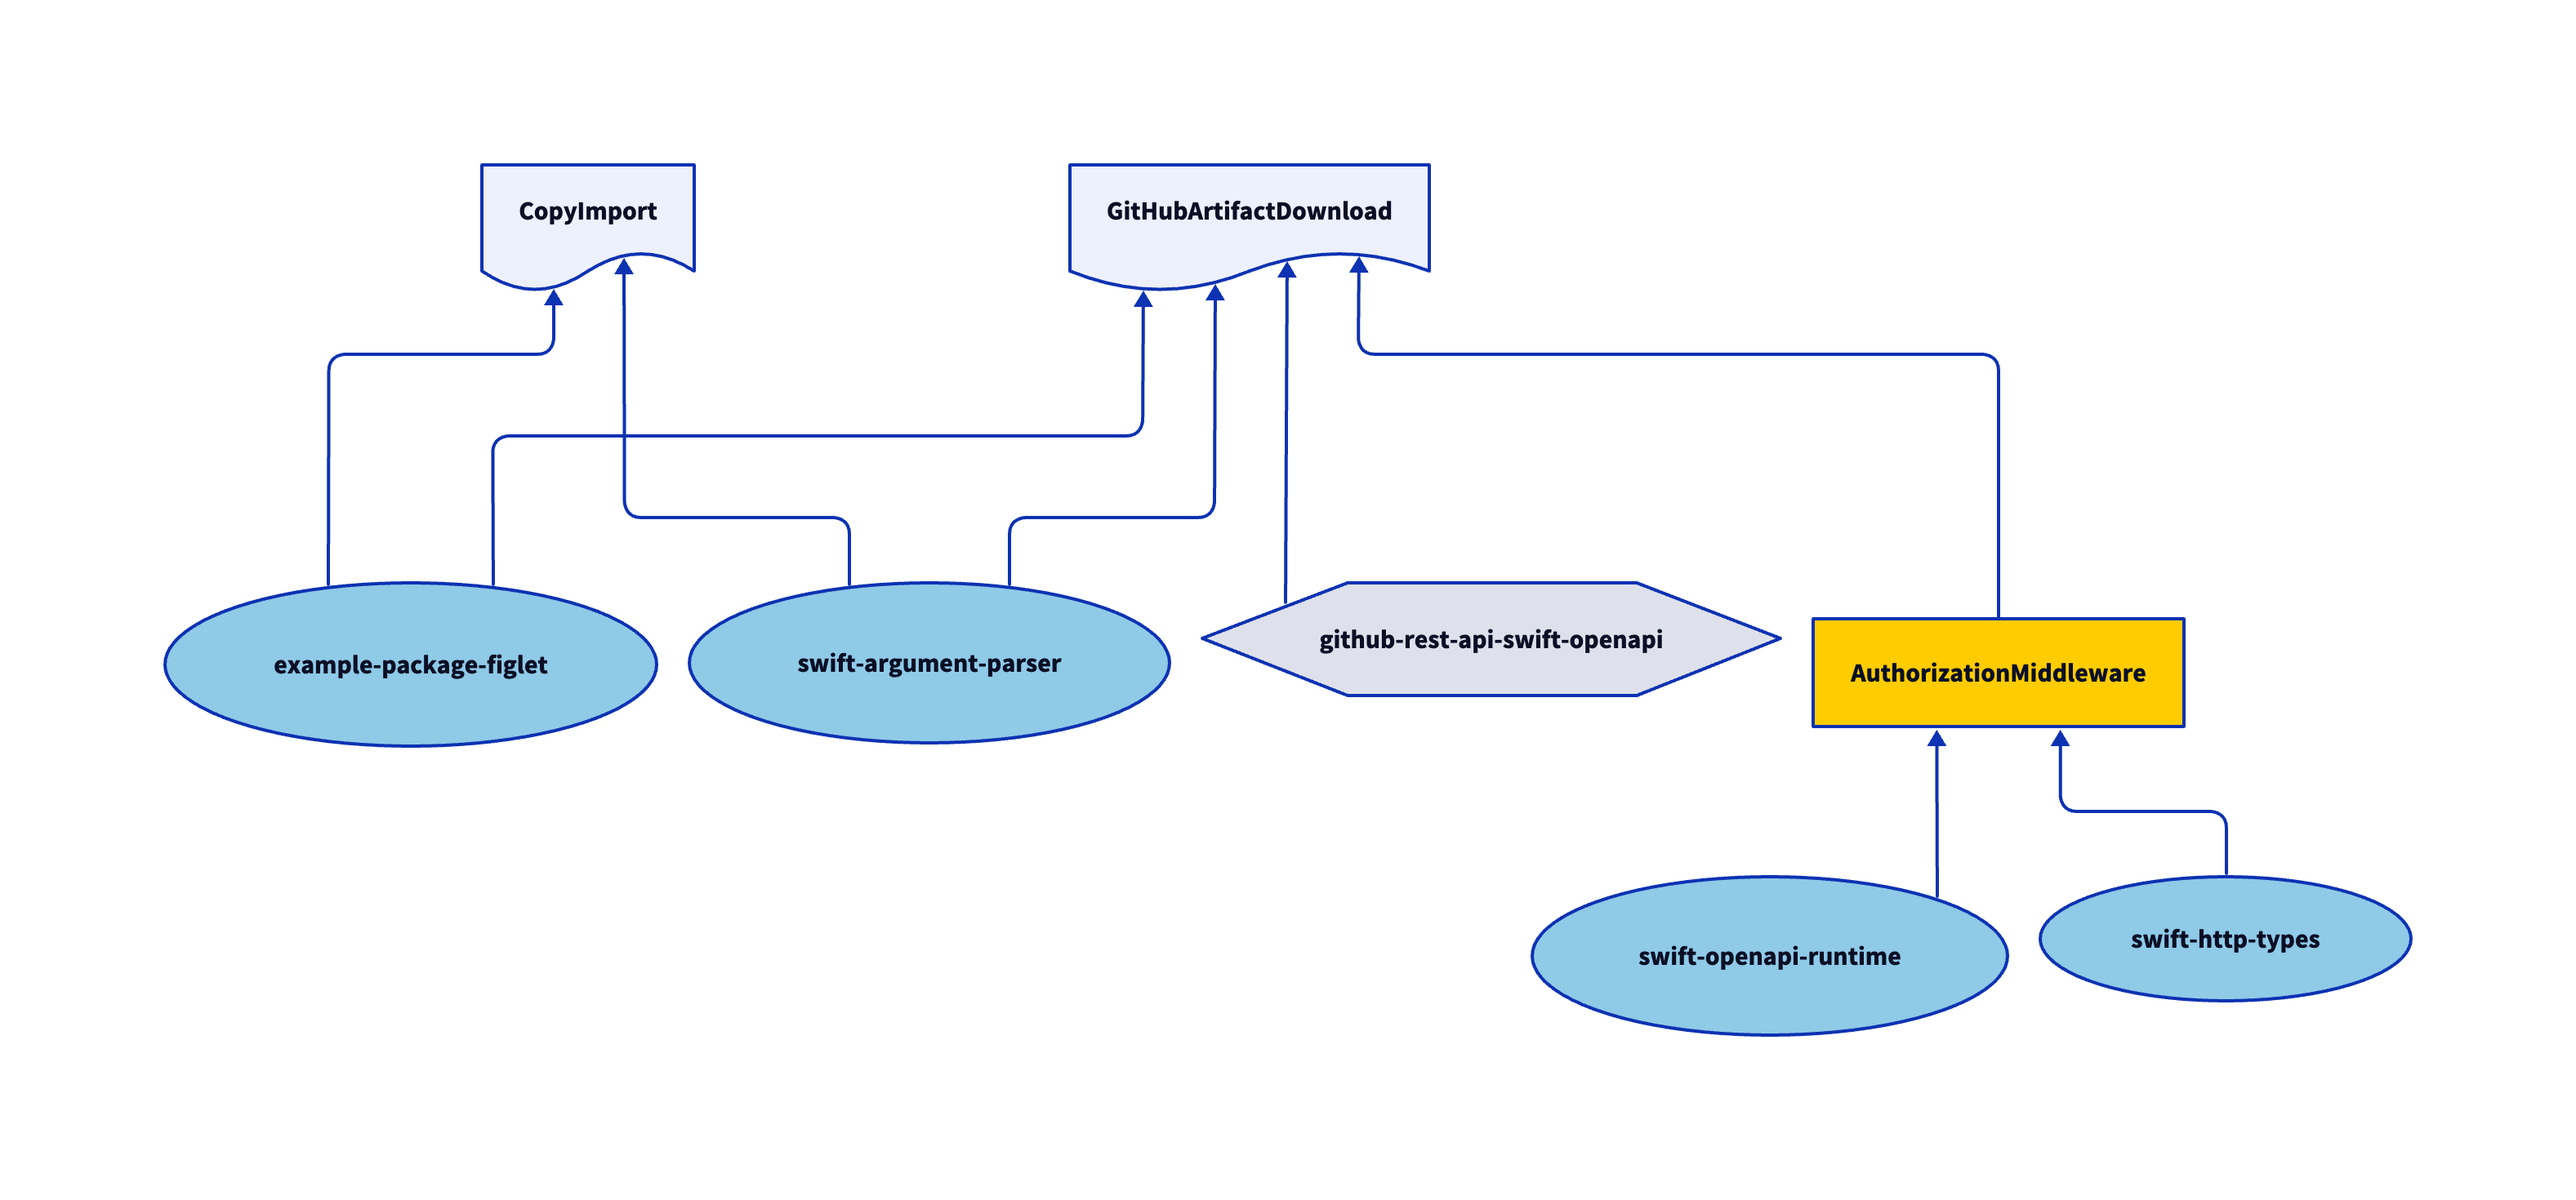
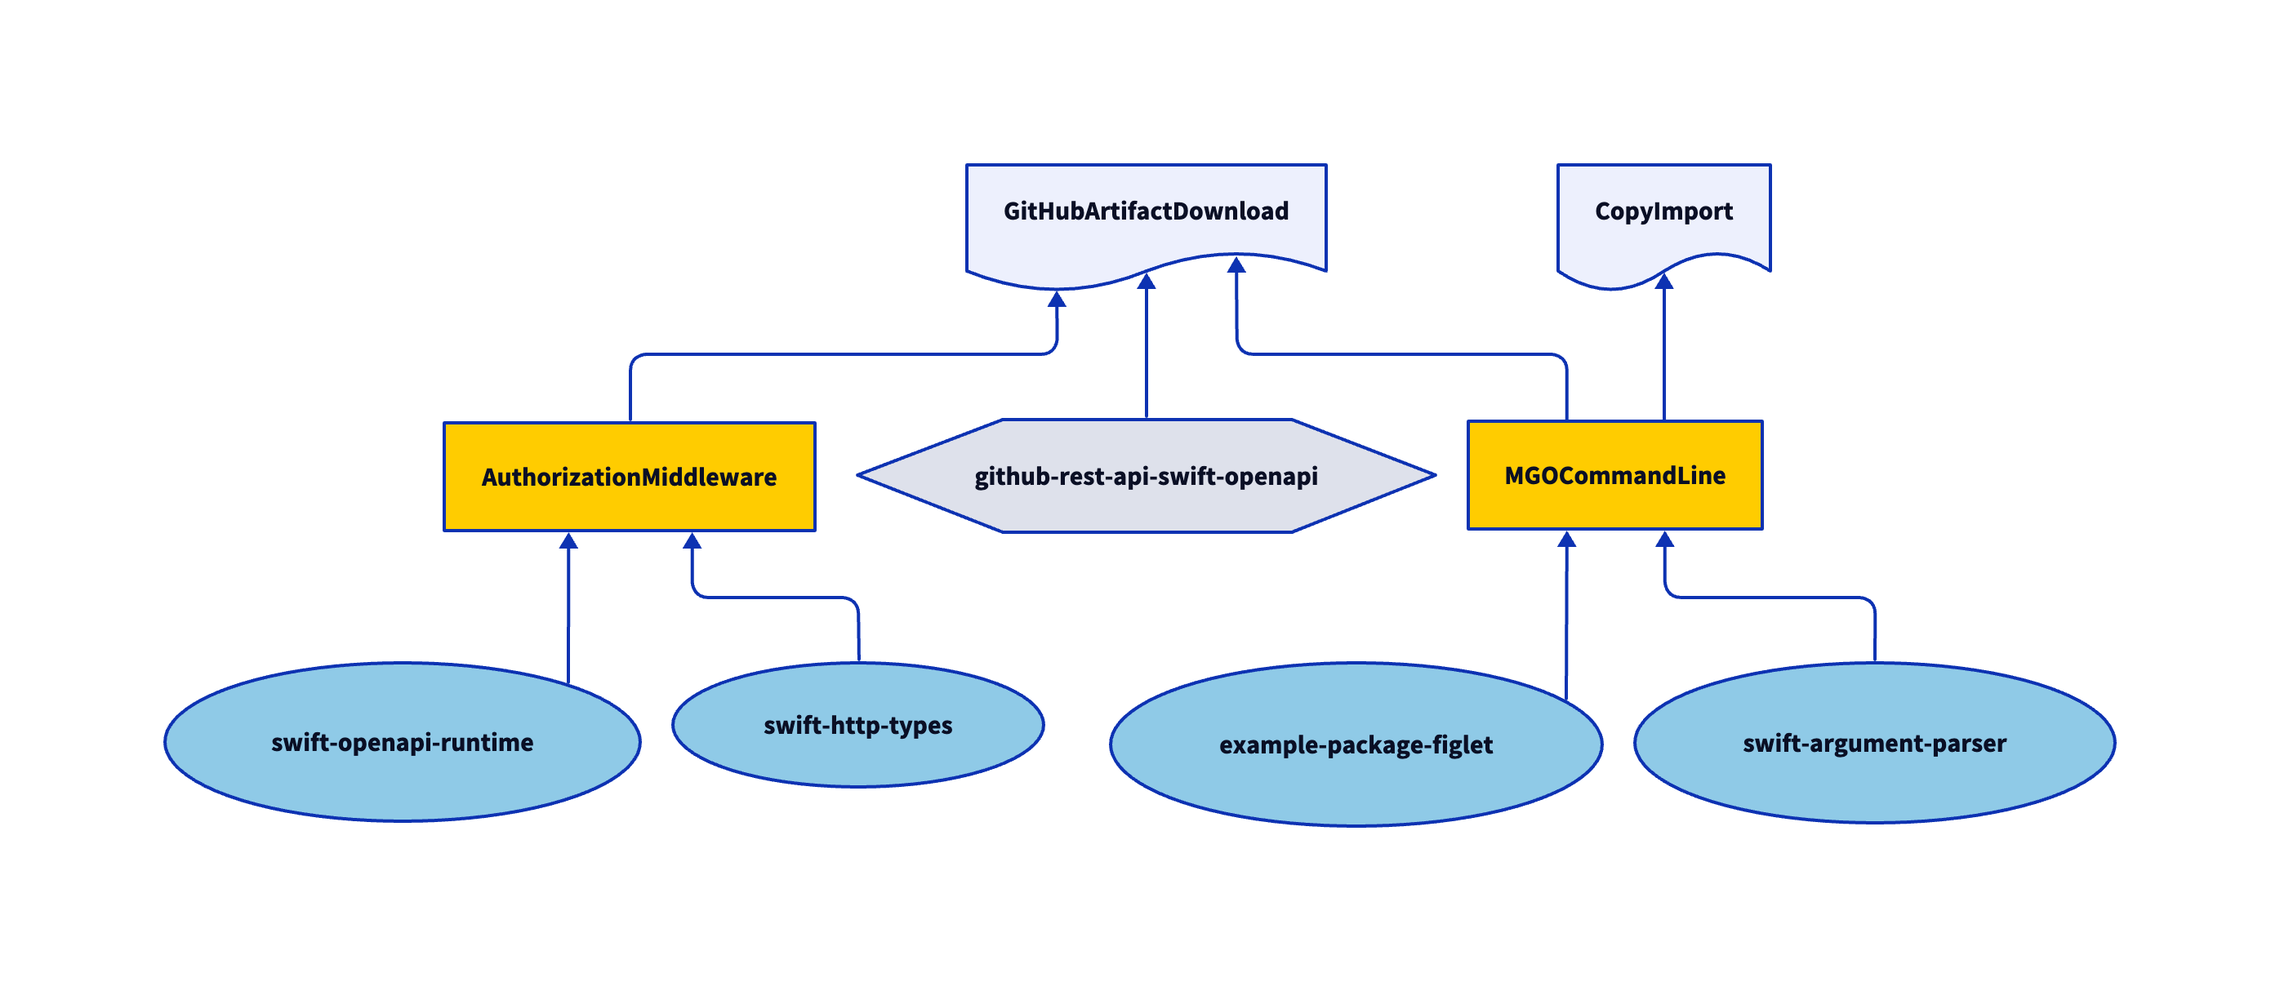
refactor: extracted common command line package

diff --git a/Packages/GitHubArtifactDownload/Package.swift b/Packages/GitHubArtifactDownload/Package.swift
@@ -12,19 +12,17 @@ let package = Package(
 		
 		// Internal
 		.package(name: "AuthorizationMiddleware", path: "../AuthorizationMiddleware"),
+		.package(name: "MGOCommandLine", path: "../MGOCommandLine"),
 		
 		// External
-		.package(url: "https://github.com/apple/example-package-figlet", branch: "main"),
-		.package(url: "https://github.com/apple/swift-argument-parser", exact: "1.6.1"),
-		.package(url: "https://github.com/wei18/github-rest-api-swift-openapi.git", exact: "3.0.1")
+		.package(url: "https://github.com/wei18/github-rest-api-swift-openapi.git", exact: "3.0.2")
 	],
 	targets: [
 		.executableTarget(
 			name: "GithubArtifactDownload",
 			dependencies: [
 				.product(name: "AuthorizationMiddleware", package: "AuthorizationMiddleware"),
-				.product(name: "Figlet", package: "example-package-figlet"),
-				.product(name: "ArgumentParser", package: "swift-argument-parser"),
+				.product(name: "MGOCommandLine", package: "MGOCommandLine"),
 				.product(name: "GitHubRestAPIActions", package: "github-rest-api-swift-openapi")
 			],
 			path: "Sources"

diff --git a/Packages/MGOCommandLine/Package.swift b/Packages/MGOCommandLine/Package.swift
@@ -1,0 +1,32 @@
+// swift-tools-version: 5.10
+// The swift-tools-version declares the minimum version of Swift required to build this package.
+
+import PackageDescription
+
+let package = Package(
+	name: "MGOCommandLine",
+	platforms: [
+		.macOS(.v10_15), .iOS(.v15)
+	],
+	products: [
+		.library(
+			name: "MGOCommandLine",
+			targets: ["MGOCommandLine"]
+		)
+	],
+	dependencies: [
+		
+		// External
+		.package(url: "https://github.com/apple/example-package-figlet", branch: "main"),
+		.package(url: "https://github.com/apple/swift-argument-parser", exact: "1.6.1")
+	],
+	targets: [
+		.target(
+			name: "MGOCommandLine",
+			dependencies: [
+				.product(name: "Figlet", package: "example-package-figlet"),
+				.product(name: "ArgumentParser", package: "swift-argument-parser")
+			]
+		)
+	]
+)

diff --git a/Packages/CopyImport/Package.swift b/Packages/CopyImport/Package.swift
@@ -5,16 +5,16 @@ import PackageDescription
 
 let package = Package(
 	name: "CopyImport",
+	platforms: [.macOS(.v10_15), .iOS(.v15)],
 	dependencies: [
-		.package(url: "https://github.com/apple/example-package-figlet", branch: "main"),
-		.package(url: "https://github.com/apple/swift-argument-parser", exact: "1.6.1")
+		// Internal
+		.package(name: "MGOCommandLine", path: "../MGOCommandLine"),
 	],
 	targets: [
 		.executableTarget(
 			name: "CopyImport",
 			dependencies: [
-				.product(name: "Figlet", package: "example-package-figlet"),
-				.product(name: "ArgumentParser", package: "swift-argument-parser")
+				.product(name: "MGOCommandLine", package: "MGOCommandLine"),
 			],
 			path: "Sources"
 		)

diff --git a/Packages/MGOCommandLine/Sources/MGOCommandLine/MGOCommandLine.swift b/Packages/MGOCommandLine/Sources/MGOCommandLine/MGOCommandLine.swift
@@ -1,0 +1,8 @@
+/*
+ *  SPDX-FileCopyrightText: 2025 De Staat der Nederlanden, Ministerie van Volksgezondheid, Welzijn en Sport.
+ *  SPDX-License-Identifier: EUPL-1.2
+ */
+
+// External
+@_exported import Figlet
+@_exported import ArgumentParser

diff --git a/Packages/GitHubArtifactDownload/Sources/GitHubArtifactDownload.swift b/Packages/GitHubArtifactDownload/Sources/GitHubArtifactDownload.swift
@@ -3,8 +3,7 @@
  *  SPDX-License-Identifier: EUPL-1.2
  */
 
-import Figlet
-import ArgumentParser
+import MGOCommandLine
 import GitHubRestAPIActions
 import OpenAPIRuntime
 import OpenAPIURLSession

diff --git a/Packages/CopyImport/Sources/CopyImport.swift b/Packages/CopyImport/Sources/CopyImport.swift
@@ -3,8 +3,7 @@
  *  SPDX-License-Identifier: EUPL-1.2
  */
 
-import Figlet
-import ArgumentParser
+import MGOCommandLine
 
 @main
 struct CopyImport: ParsableCommand {

diff --git a/Packages/MGOCommandLine/README.md b/Packages/MGOCommandLine/README.md
@@ -1,0 +1,35 @@
+# GitHub Artifact Download
+
+## Overview
+
+This package will download an artifact from a GitHub repository
+
+## Usage
+
+The `GithubArtifactDownload` command take the following parameters:
+* token: the GitHub API Token (see [github.com](https://github.com/settings/tokens) for your tokens)
+* owner: the owner of the repository (github.com/*owner*/repository)
+* repository: the repository (github.com/owner/*repository*)
+* workflow-id: the identifer of the workflow (see [github.com](https://docs.github.com/en/rest/actions/workflows?apiVersion=2022-11-28#list-repository-workflows) for details how to get the id)
+* output: the output file for the artifact
+
+```swift
+
+	swift run GithubArtifactDownload --token ${GITHUB_API_KEY} --owner "minvws" --repository "nl-mgo-app-web-private" --workflow-id "114414377" --output tmp/artifact.zip
+```
+
+---
+
+## Contribution process
+
+The development team works on the repository in a private fork (for reasons of compliance with existing processes) and shares its work as often as possible.
+
+If you plan to make non-trivial changes, we recommend to open an issue beforehand where we can discuss your planned changes. This increases the chance that we might be able to use your contribution (or it avoids doing work if there are reasons why we wouldn't be able to use it).
+
+Note that all commits should be signed using a [gpg key](https://docs.github.com/en/authentication/managing-commit-signature-verification/adding-a-gpg-key-to-your-github-account).
+
+---
+
+## License
+
+License is released under the EUPL 1.2 license. See [LICENSE.txt](https://github.com/minvws/nl-mgo-app-ios-private/blob/main/Packages/CopyImport/LICENSE.txt) for details.
